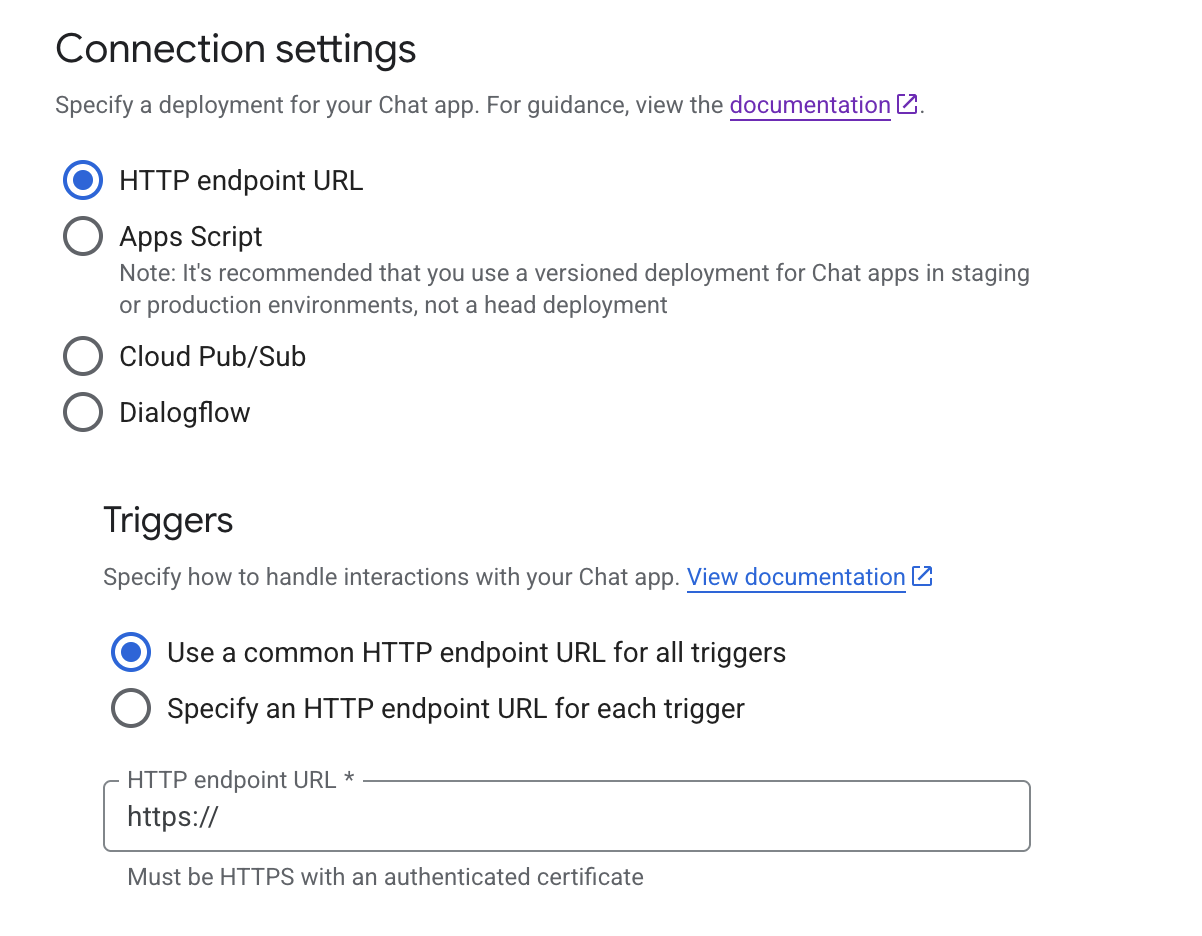
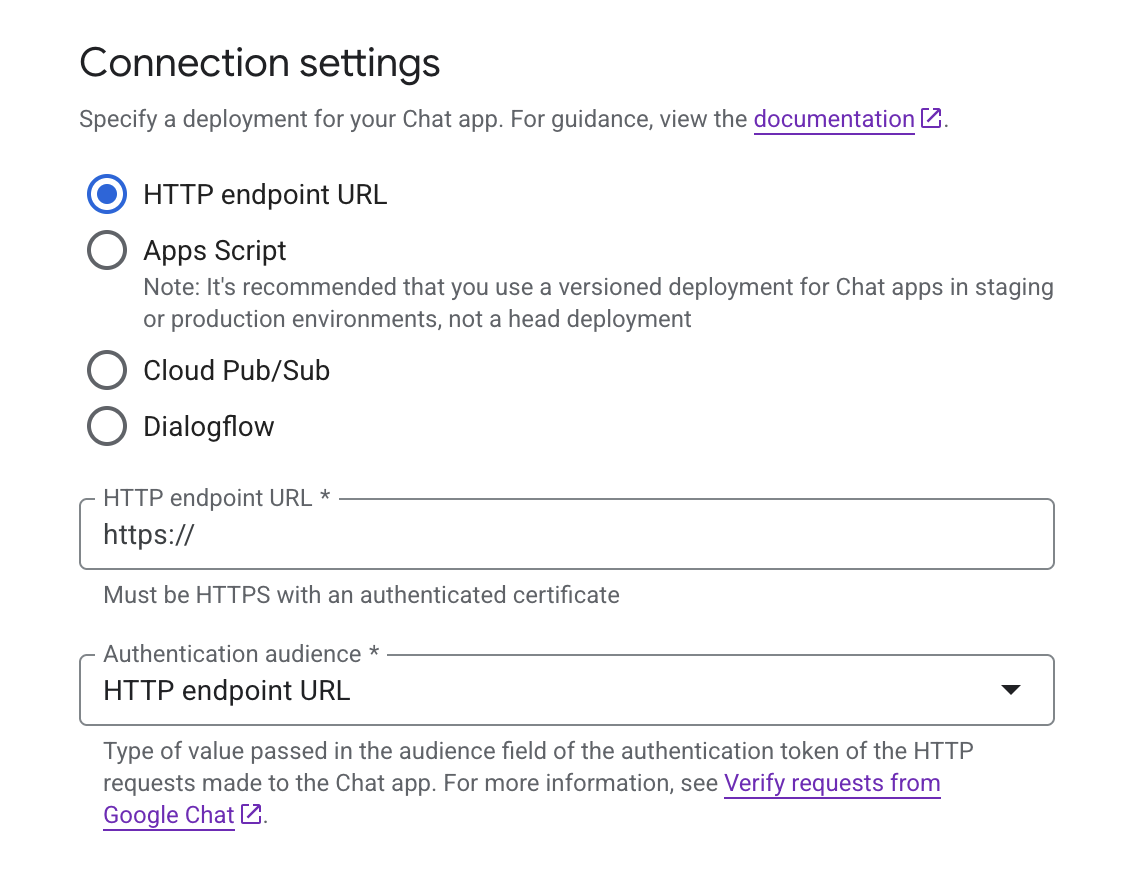
Update examples and images
temp

Changed region(s): [[0.0308, 0.0306, 0.9243, 0.949]]

diff --git a/README.md b/README.md
@@ -53,11 +53,13 @@ For production, deploy the listener behind any HTTPS-terminating load balancer o
 
 2. Provide the **App name**, **Avatar URL** and **Description**.
 
-3. Under **Interactive features**, enable the features your app needs (receive 1:1 messages, join spaces, slash commands, etc.).
+3. Make sure **"Build this Chat app as a Workspace add-on"** is **unchecked** — this connector handles interaction events directly over HTTP, not as a Workspace add-on.
 
-4. Under **Connection settings**, choose **HTTP endpoint URL** and paste the ngrok (or production) HTTPS URL from Step 3.
+4. Under **Interactive features**, enable the features your app needs (receive 1:1 messages, join spaces, slash commands, etc.).
 
-5. Set **Authentication audience** to either:
+5. Under **Connection settings**, choose **HTTP endpoint URL** and paste the ngrok (or production) HTTPS URL from Step 3.
+
+6. Set **Authentication audience** to either:
 
     - the same **HTTP endpoint URL** (use `HttpEndpointUrlConfig` / `endpointUrl` in the listener), or
     - your **Project number** (use `ProjectNumberConfig` / `projectNumber` in the listener).
@@ -66,7 +68,7 @@ For production, deploy the listener behind any HTTPS-terminating load balancer o
 
     <img src=https://raw.githubusercontent.com/ballerina-platform/module-ballerinax-googleapis.chat/main/docs/setup/resources/connection-settings.png alt="Connection Settings" width="50%">
 
-6. Under **Visibility**, add the email addresses of users or Google Workspace domains that can install your app.
+7. Under **Visibility**, add the email addresses of users or Google Workspace domains that can install your app.
 
 ### Step 5: Choose an authentication method
 
@@ -76,7 +78,7 @@ The connector supports three authentication modes. Pick the one that matches you
 
 A service account lets your app act as itself — ideal for bots that post messages, manage memberships, or run continuously.
 
-1. Navigate to **IAM & Admin → Service Accounts** and click **Create service account**.
+1. Navigate to **APIs & Services → Credentials**, open the **+ Create credentials** dropdown, and select **Service account**.
 
     <img src=https://raw.githubusercontent.com/ballerina-platform/module-ballerinax-googleapis.chat/main/docs/setup/resources/create-service-account.png alt="Create Service Account" width="50%">
 
@@ -90,7 +92,7 @@ A service account lets your app act as itself — ideal for bots that post messa
 
 OAuth 2.0 lets your app act on behalf of a signed-in user — required for operations like attachment uploads that need user scopes.
 
-1. Open **APIs & Services → OAuth consent screen**, configure your consent screen, and add the Chat scopes your app uses (for example `https://www.googleapis.com/auth/chat.messages`, `https://www.googleapis.com/auth/chat.spaces`).
+1. Open **APIs & Services → OAuth consent screen** and configure your consent screen (provide an app name and support email). You do not need to add scopes here — they are requested at authorisation time in the OAuth Playground.
 
     <img src=https://raw.githubusercontent.com/ballerina-platform/module-ballerinax-googleapis.chat/main/docs/setup/resources/consent-screen.png alt="Consent Screen" width="50%">
 
@@ -135,7 +137,7 @@ final chat:Client chatClient = check new ({auth: oauthAuth});
 
 ```ballerina
 // List spaces the app has access to.
-chat:ListSpacesResponse spaces = check chatClient->/spaces;
+chat:ListSpacesResponse spaces = check chatClient->/spaces();
 
 // Send a message to a space.
 chat:Message sent = check chatClient->/spaces/["AAAA1234"]/messages.post({
@@ -145,7 +147,7 @@ chat:Message sent = check chatClient->/spaces/["AAAA1234"]/messages.post({
 
 ### Step 2 (Listener): Initialise a Chat listener
 
-Use this if your app needs to handle interaction events from Google Chat (messages, card clicks, slash commands, etc.). The listener exposes an HTTP endpoint that Google Chat POSTs events to; it provides an internal Chat API client used by the injected `chat:Caller` — no separate client needed for replies.
+Use this if your app needs to handle interaction events from Google Chat (messages, card clicks, slash commands, etc.). The listener exposes an HTTP endpoint that Google Chat POSTs events to; it provides an internal Chat API client used by the injected caller — no separate client needed for replies.
 
 ```ballerina
 listener chat:Listener chatListener = new (8000, {
@@ -157,8 +159,8 @@ listener chat:Listener chatListener = new (8000, {
 }
 service chat:ChatService on chatListener {
 
-    remote function onMessage(chat:ChatEvent event, chat:Caller caller) returns error? {
-        _ = check caller->reply("Echo: " + (event.message?.text ?: ""));
+    remote function onMessage(chat:MessageEvent event, chat:MessageCaller caller) returns error? {
+        check caller->respond({text: "Echo: " + (event.message.text ?: "")});
     }
 }
 ```
@@ -179,7 +181,7 @@ The `endpointUrl` must exactly match the **HTTP endpoint URL** configured in you
 | `onAppHome`           | A user opens the app's home page.                                |
 | `onWidgetUpdated`     | A widget requests an autocomplete or similar update.             |
 
-Each handler receives the `chat:ChatEvent` and (optionally) a `chat:Caller` pre-configured with the event's space context. Use the caller to `respond` (synchronously, within the event window) or to call Chat APIs asynchronously (`sendMessage`, `updateMessage`, etc.).
+Each handler receives the event and (optionally) an event-specific caller (`chat:MessageCaller`, `chat:CardClickedCaller`, `chat:AppHomeCaller`, etc.) pre-configured with the event's space context. Use the caller to `respond` (synchronously, within the event window) or to call Chat APIs asynchronously (`sendMessage`, `updateMessage`, etc.).
 
 ### Step 4: Run the Ballerina application
 
@@ -195,11 +197,9 @@ ngrok http 8000
 
 ## Examples
 
-The `googleapis.chat` connector provides practical examples illustrating usage in various scenarios. Explore these [examples](https://github.com/ballerina-platform/module-ballerinax-googleapis.chat/tree/main/ballerina/examples).
+The `googleapis.chat` connector provides practical examples illustrating usage in various scenarios. Explore these [examples](https://github.com/ballerina-platform/module-ballerinax-googleapis.chat/tree/main/examples).
 
-1. [HTTP endpoint listener with service account](https://github.com/ballerina-platform/module-ballerinax-googleapis.chat/tree/main/ballerina/examples/http_service_account) — Receive Chat events over HTTP with Google-signed bearer-token verification; reply via the injected `chat:Caller`.
-
-2. [Echo uploaded image](https://github.com/ballerina-platform/module-ballerinax-googleapis.chat/tree/main/ballerina/examples/echo_uploaded_image) — Demonstrates attachment download and upload using the Chat client (requires OAuth user scopes).
+1. [Echo bot](https://github.com/ballerina-platform/module-ballerinax-googleapis.chat/tree/main/examples/echo-bot) — A minimal Google Chat app that replies to every message with the same text, demonstrating the listener's HTTP delivery mode and replying via the injected `chat:MessageCaller`.
 
 ## Issues and projects
 

diff --git a/ballerina/README.md b/ballerina/README.md
@@ -47,11 +47,13 @@ For production, deploy the listener behind any HTTPS-terminating load balancer o
 
 2. Provide the **App name**, **Avatar URL** and **Description**.
 
-3. Under **Interactive features**, enable the features your app needs (receive 1:1 messages, join spaces, slash commands, etc.).
+3. Make sure **"Build this Chat app as a Workspace add-on"** is **unchecked** — this connector handles interaction events directly over HTTP, not as a Workspace add-on.
 
-4. Under **Connection settings**, choose **HTTP endpoint URL** and paste the ngrok (or production) HTTPS URL from Step 3.
+4. Under **Interactive features**, enable the features your app needs (receive 1:1 messages, join spaces, slash commands, etc.).
 
-5. Set **Authentication audience** to either:
+5. Under **Connection settings**, choose **HTTP endpoint URL** and paste the ngrok (or production) HTTPS URL from Step 3.
+
+6. Set **Authentication audience** to either:
 
     - the same **HTTP endpoint URL** (use `HttpEndpointUrlConfig` / `endpointUrl` in the listener), or
     - your **Project number** (use `ProjectNumberConfig` / `projectNumber` in the listener).
@@ -60,7 +62,7 @@ For production, deploy the listener behind any HTTPS-terminating load balancer o
 
     ![Connection Settings](https://raw.githubusercontent.com/ballerina-platform/module-ballerinax-googleapis.chat/main/docs/setup/resources/connection-settings.png)
 
-6. Under **Visibility**, add the email addresses of users or Google Workspace domains that can install your app.
+7. Under **Visibility**, add the email addresses of users or Google Workspace domains that can install your app.
 
 ### Step 5: Choose an authentication method
 
@@ -70,7 +72,7 @@ The connector supports three authentication modes. Pick the one that matches you
 
 A service account lets your app act as itself — ideal for bots that post messages, manage memberships, or run continuously.
 
-1. Navigate to **IAM & Admin → Service Accounts** and click **Create service account**.
+1. Navigate to **APIs & Services → Credentials**, open the **+ Create credentials** dropdown, and select **Service account**.
 
     ![Create Service Account](https://raw.githubusercontent.com/ballerina-platform/module-ballerinax-googleapis.chat/main/docs/setup/resources/create-service-account.png)
 
@@ -84,7 +86,7 @@ A service account lets your app act as itself — ideal for bots that post messa
 
 OAuth 2.0 lets your app act on behalf of a signed-in user — required for operations like attachment uploads that need user scopes.
 
-1. Open **APIs & Services → OAuth consent screen**, configure your consent screen, and add the Chat scopes your app uses (for example `https://www.googleapis.com/auth/chat.messages`, `https://www.googleapis.com/auth/chat.spaces`).
+1. Open **APIs & Services → OAuth consent screen** and configure your consent screen (provide an app name and support email). You do not need to add scopes here — they are requested at authorisation time in the OAuth Playground.
 
     ![OAuth Consent Screen](https://raw.githubusercontent.com/ballerina-platform/module-ballerinax-googleapis.chat/main/docs/setup/resources/consent-screen.png)
 
@@ -150,7 +152,7 @@ chat:Message sent = check chatClient->/spaces/["AAAA1234"]/messages.post({
 
 ### Step 2 (Listener): Initialise a Chat listener
 
-Use this if your app needs to handle interaction events from Google Chat (messages, card clicks, slash commands, etc.). The listener exposes an HTTP endpoint that Google Chat POSTs events to; it provides an internal Chat API client used by the injected `chat:Caller` — no separate client needed for replies.
+Use this if your app needs to handle interaction events from Google Chat (messages, card clicks, slash commands, etc.). The listener exposes an HTTP endpoint that Google Chat POSTs events to; it provides an internal Chat API client used by the injected caller — no separate client needed for replies.
 
 ```ballerina
 listener chat:Listener chatListener = new (8000, {
@@ -162,8 +164,8 @@ listener chat:Listener chatListener = new (8000, {
 }
 service chat:ChatService on chatListener {
 
-    remote function onMessage(chat:ChatEvent event, chat:Caller caller) returns error? {
-        _ = check caller->reply("Echo: " + (event.message?.text ?: ""));
+    remote function onMessage(chat:MessageEvent event, chat:MessageCaller caller) returns error? {
+        check caller->respond({text: "Echo: " + (event.message.text ?: "")});
     }
 }
 ```
@@ -184,7 +186,7 @@ The `endpointUrl` must exactly match the **HTTP endpoint URL** configured in you
 | `onAppHome`           | A user opens the app's home page.                                |
 | `onWidgetUpdated`     | A widget requests an autocomplete or similar update.             |
 
-Each handler receives the `chat:ChatEvent` and (optionally) a `chat:Caller` pre-configured with the event's space context. Use the caller to `respond` (synchronously, within the event window) or to call Chat APIs asynchronously (`sendMessage`, `updateMessage`, etc.).
+Each handler receives the event and (optionally) an event-specific caller (`chat:MessageCaller`, `chat:CardClickedCaller`, `chat:AppHomeCaller`, etc.) pre-configured with the event's space context. Use the caller to `respond` (synchronously, within the event window) or to call Chat APIs asynchronously (`sendMessage`, `updateMessage`, etc.).
 
 ### Step 4: Run the Ballerina application
 
@@ -200,8 +202,6 @@ ngrok http 8000
 
 ## Examples
 
-The `googleapis.chat` connector provides practical examples illustrating usage in various scenarios. Explore these [examples](https://github.com/ballerina-platform/module-ballerinax-googleapis.chat/tree/main/ballerina/examples).
+The `googleapis.chat` connector provides practical examples illustrating usage in various scenarios. Explore these [examples](https://github.com/ballerina-platform/module-ballerinax-googleapis.chat/tree/main/examples).
 
-1. [HTTP endpoint listener with service account](https://github.com/ballerina-platform/module-ballerinax-googleapis.chat/tree/main/ballerina/examples/http_service_account) — Receive Chat events over HTTP with Google-signed bearer-token verification; reply via the injected `chat:Caller`.
-
-2. [Echo uploaded image](https://github.com/ballerina-platform/module-ballerinax-googleapis.chat/tree/main/ballerina/examples/echo_uploaded_image) — Demonstrates attachment download and upload using the Chat client (requires OAuth user scopes).
+1. [Echo bot](https://github.com/ballerina-platform/module-ballerinax-googleapis.chat/tree/main/examples/echo-bot) — A minimal Google Chat app that replies to every message with the same text, demonstrating the listener's HTTP delivery mode and replying via the injected `chat:MessageCaller`.

diff --git a/examples/echo-bot/README.md b/examples/echo-bot/README.md
@@ -1,0 +1,43 @@
+# Echo bot
+
+A minimal Google Chat app that replies to every message with the same text it received. It demonstrates the listener's HTTP delivery mode, Google-signed bearer-token verification, and replying through the injected `chat:MessageCaller`.
+
+## Prerequisites
+
+### 1. Set up the Google Chat API
+
+Follow the connector [setup guide](https://github.com/ballerina-platform/module-ballerinax-googleapis.chat#setup-guide) to:
+
+- Create a Google Cloud project and enable the Google Chat API.
+- Create a **service account** and download its JSON key file (Option A in the setup guide).
+- Configure the Chat app with **Connection settings → HTTP endpoint URL** and an **Authentication audience** of *HTTP endpoint URL*.
+
+### 2. Expose the listener
+
+Google Chat must reach the listener over a public HTTPS URL. For local development:
+
+```bash
+ngrok http 8000
+```
+
+Use the printed `https://<sub>.ngrok-free.app` URL as both the **HTTP endpoint URL** in the Chat app configuration and the `endpointUrl` below.
+
+### 3. Configuration
+
+Create a `Config.toml` file in this directory:
+
+```toml
+endpointUrl = "https://<your-subdomain>.ngrok-free.app"
+# port = 8000   # optional, defaults to 8000
+
+[serviceAccountAuth]
+path = "./service-account-key.json"
+```
+
+## Run the example
+
+```bash
+bal run
+```
+
+Send the app a message in Google Chat — it replies with `You said: <your message>`.

diff --git a/examples/README.md b/examples/README.md
@@ -1,0 +1,20 @@
+# Examples
+
+The `googleapis.chat` connector provides practical examples illustrating usage in various scenarios.
+
+1. [Echo bot](echo-bot) — A minimal Google Chat app that replies to every message with the same text, demonstrating the listener's HTTP delivery mode and replying via the injected `chat:MessageCaller`.
+
+## Prerequisites
+
+1. Follow the connector [setup guide](https://github.com/ballerina-platform/module-ballerinax-googleapis.chat#setup-guide) to create a Google Cloud project, enable the Google Chat API, configure the Chat app, and obtain credentials.
+
+2. For each example, create a `Config.toml` file in the example directory with the required configuration (see the example's own README).
+
+## Running an example
+
+Execute the following commands to build and run an example from its directory:
+
+```bash
+bal build
+bal run
+```
